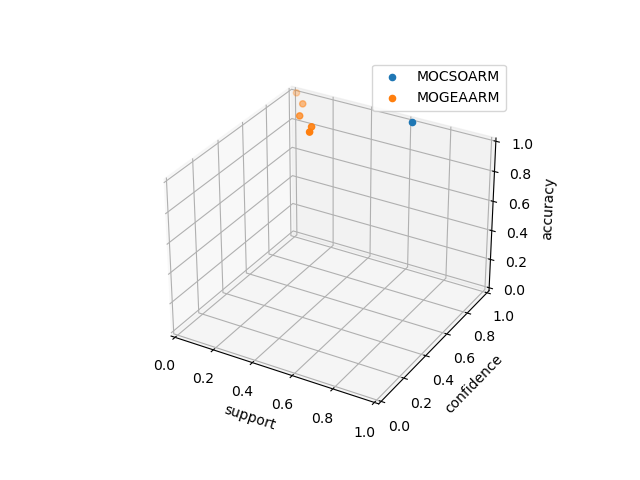
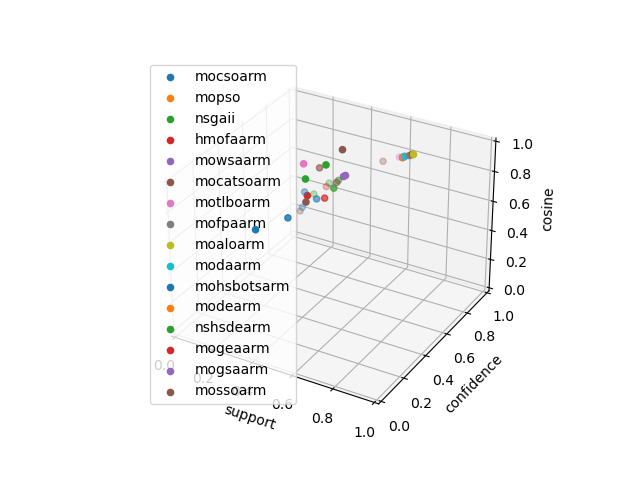
new test

diff --git a/main.py b/main.py
@@ -38,10 +38,11 @@ hyper.SaveBestParameters('HyperParameters/MODAARM/bestParameters.json')
 
 nbIteration = 10
 populationSize = 200
-objectiveNames = ['support','confidence','accuracy']
+objectiveNames = ['support','confidence','cosine']
 criterionList = ['scores','execution time']
 algorithmNameList = ['MOCSOARM','MOSSOARM']
-#algorithmNameList = ['CSOARM','mopso','nsgaii','hmofaarm','mowsaarm','mocatsoarm','motlboarm','mofpaarm','moaloarm','modaarm','MOHSBOTSARM']
+algorithmNameList = ['mocsoarm','mopso','nsgaii','hmofaarm','mowsaarm','mocatsoarm','motlboarm',
+                     'mofpaarm','moaloarm','modaarm','mohsbotsarm','modearm','nshsdearm','mogeaarm','mogsaarm','mossoarm']
 
 perf = Performances(algorithmNameList,criterionList,objectiveNames)
 #d = Data(artificial=True)
@@ -70,8 +71,8 @@ mogsaarm = MOGSAARM(d.data.shape[1],populationSize,nbIteration,len(objectiveName
 mossoarm = MOSSOARM(d.data.shape[1],populationSize,nbIteration,len(objectiveNames),objectiveNames,d.data)
 
 
-#algorithmList = [mocsoarm,mopso,nsgaii,hmofaarm,mowsaarm,mocatsoarm,motlboarm,mofpaarm,moaloarm,modaarm,mohsbotsarm]
-algorithmList = [mocsoarm,mossoarm]
+algorithmList = [mocsoarm,mopso,nsgaii,hmofaarm,mowsaarm,mocatsoarm,motlboarm,mofpaarm,moaloarm,modaarm,mohsbotsarm,modearm,nshsdearm,mogeaarm,mogsaarm,mossoarm]
+#algorithmList = [mocsoarm,mossoarm]
 for i in range(nbIteration):
     k = 0
     for alg in algorithmList:

diff --git a/src/Utils/Fitness.py b/src/Utils/Fitness.py
@@ -74,6 +74,15 @@ class Fitness:
         else:
             return np.sqrt(suppRule)*((suppRule/suppAntecedent)-suppConsequent)
 
+    def Cosine(self, indexRule, indexAntecedent, indexConsequent, data):
+        suppAntecedent = SuppGPU(indexAntecedent, data)
+        suppRule = SuppGPU(indexRule, data)
+        suppConsequent = SuppGPU(indexConsequent, data)
+        if suppAntecedent == 0 or suppConsequent == 0 or suppRule == 0:
+            return 0
+        else:
+            return suppRule/np.sqrt(suppAntecedent*suppConsequent)
+
     def ComputeScoreIndividual(self,individual,data):
         score = [0 for _ in range(self.nbObjectives)]
         for j in range(self.nbObjectives):
@@ -91,6 +100,8 @@ class Fitness:
                 score[j] = self.Accuracy(indexRule,data)
             if objective == 'klosgen':
                 score[j] = self.Klosgen(indexRule,indexAntecedent,indexConsequent,data)
+            if objective == 'cosine':
+                score[j] = self.Cosine(indexRule, indexAntecedent, indexConsequent, data)
         return np.array(score)
 
     def ComputeScorePopulation(self,population,data):
